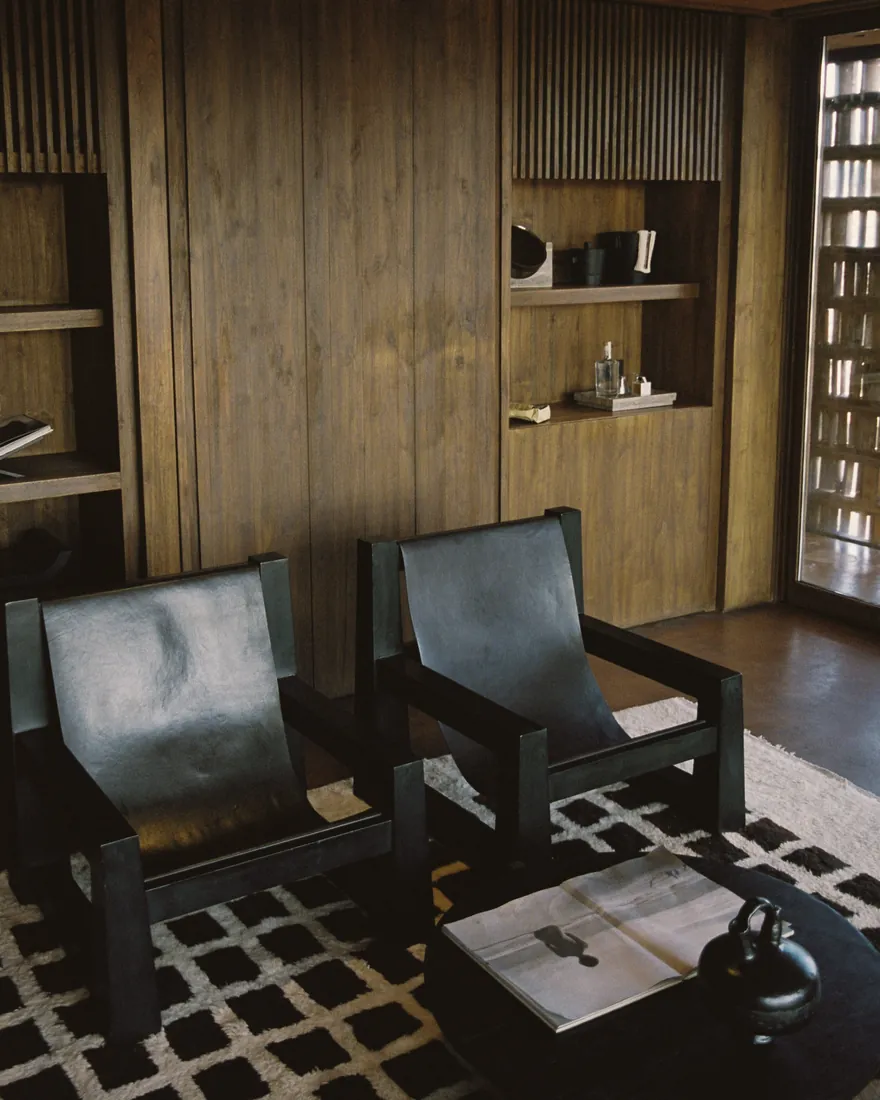
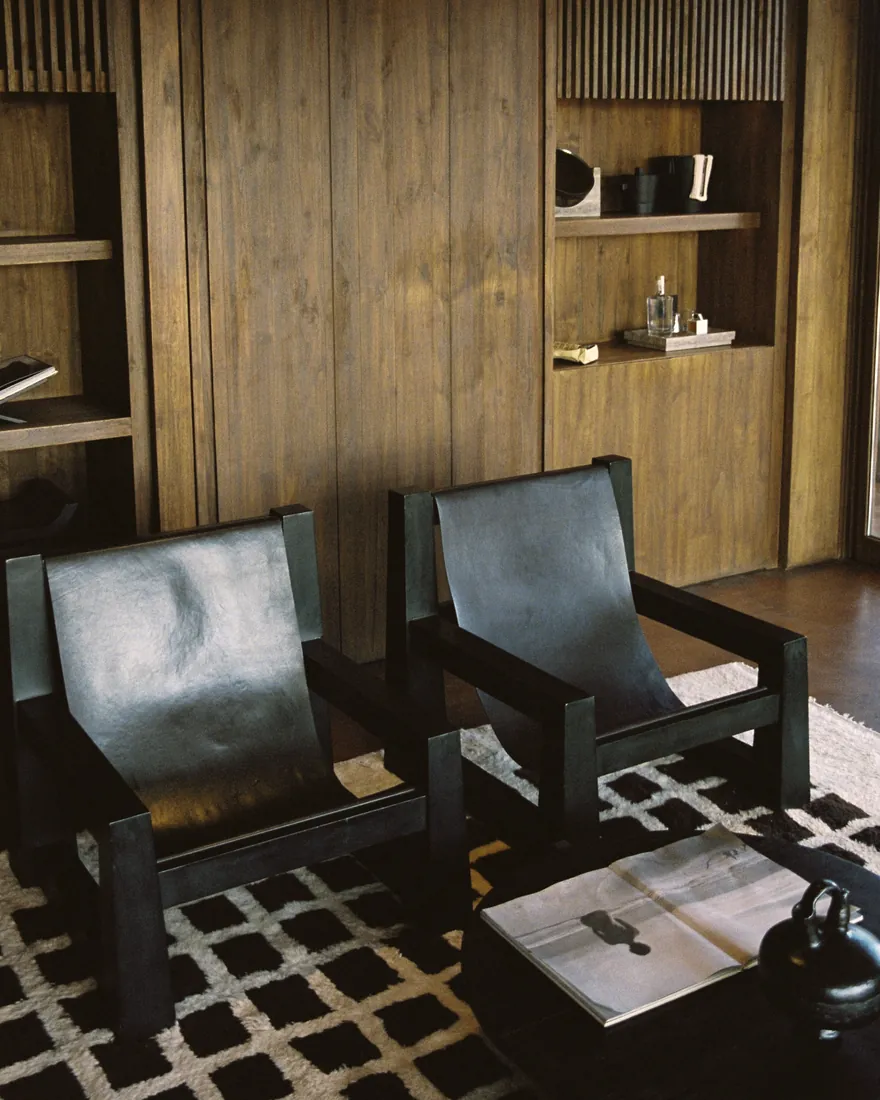
Lauren and her partner on the homepage and Meet Lauren; one Tune Up price; brighter intensive photo
- Homepage 'Meet your therapist' now shows Lauren with her partner (her own photo)
- Meet Lauren 'Who I am' uses a second photo of Lauren and her partner
- Tune Up fees: one $190 card with three ways to book, instead of three identical prices
- Intensive hero armchairs re-cropped and brightened, lighter tint
- Removed leftover styles for deleted homepage sections

Claude-Session: https://claude.ai/code/session_0185fBvg6G8bGENEXrerv9Ya

diff --git a/relationship-tune-up.html b/relationship-tune-up.html
@@ -424,6 +424,22 @@ footer .brand svg{color:var(--hotline)}
 .also a{color:inherit;text-decoration:underline;text-underline-offset:4px}
 @media(max-width:700px){.pillars{grid-template-columns:1fr}.pillar:nth-child(even){padding-left:0;border-left:0}}
 
+
+/* tune up price, 23 Nov */
+.tu-price{display:grid;grid-template-columns:minmax(0,5fr) minmax(0,7fr);gap:16px;margin-top:48px}
+@media(max-width:900px){.tu-price{grid-template-columns:1fr}}
+.tu-one{background:var(--blush);color:var(--ink);border-radius:26px;padding:30px;display:flex;flex-direction:column;gap:10px}
+.tu-one .tag,.tu-rhythms .tag{font-family:var(--m);font-size:12px;letter-spacing:.08em;text-transform:uppercase}
+.tu-one .price{font-family:var(--q);font-weight:800;font-size:clamp(72px,9vw,104px);line-height:.9;letter-spacing:-.02em;margin-top:6px}
+.tu-one .len{font-family:var(--m);font-size:12px;letter-spacing:.06em;text-transform:uppercase}
+.tu-one .tu-for{font-size:17px;margin-top:6px}
+.tu-one .btn-wrap{margin-top:auto;padding-top:16px}
+.btn-blush{background:var(--ink);color:#fff}
+.tu-rhythms{list-style:none;margin:0;padding:0;border-top:2px solid var(--blush)}
+.tu-rhythms li{border-bottom:2px solid var(--blush);padding:20px 0}
+.tu-rhythms .tag{color:var(--lime)}
+.tu-rhythms h3{font-family:var(--q);font-weight:800;text-transform:uppercase;font-size:22px;line-height:1.05;margin:6px 0 6px}
+.tu-rhythms p{font-size:17px;max-width:36em}
 </style>
 </head>
 <body>
@@ -504,22 +520,20 @@ footer .brand svg{color:var(--hotline)}
   <div class="wrap">
     <p class="label">The investment</p>
     <h2 class="Q" style="margin-top:18px">Pick a rhythm that fits your life.</h2>
-    <div class="fees"><div class="fee"><span class="tag">The Tune Up · single</span><p class="price">$190</p><p class="len">75 minutes · one session</p><ul>
-<li>A single, unhurried reconnection</li>
-<li>Revisit your miss, refresh your moves</li>
-<li>Book anytime, no history needed</li>
-<li>For past clients or a couple in a good place</li>
-</ul></div><div class="fee hi"><span class="tag">Seasonal Tune Ups</span><p class="price">$190</p><p class="len">Each · roughly one a season</p><ul>
-<li>Four across the year, the steady rhythm</li>
-<li>Booked one at a time, nothing prepaid</li>
-<li>A gentle reminder when each is due</li>
-<li>Keeps you ahead of the small stuff</li>
-</ul></div><div class="fee"><span class="tag">The Annual Check Up</span><p class="price">$190</p><p class="len">Once a year · 75 minutes</p><ul>
-<li>Your yearly relationship check up</li>
-<li>Book it and forget the date. I remind you</li>
-<li>A simple ritual that keeps you close</li>
-<li>Same warm session, once a year</li>
-</ul></div></div><p class="fineprint">Private fee, GST free. Relationship therapy is not rebatable under Medicare. If your extras cover Accredited Mental Health Social Workers, your fund may pay a benefit for a couples session, so check with them first. Past clients are welcome back at the same rate. Prefer a different cadence? Just ask, and I will shape it around your life.</p>
+    <div class="tu-price">
+      <div class="tu-one">
+        <span class="tag">Every Tune Up</span>
+        <p class="price">$190</p>
+        <p class="len">75 minutes · online · book anytime, no history needed</p>
+        <p class="tu-for">For past clients, or any couple in a good place who wants to stay there.</p>
+        <div class="btn-wrap"><a class="btn btn-blush js-enquire" href="mailto:lovelounge@queerlovelounge.com.au?subject=Queer%20Love%20Lounge%3A%20Tune%20Up%20enquiry">Enquire about a Tune Up</a></div>
+      </div>
+      <ol class="tu-rhythms">
+        <li><span class="tag">Once</span><h3>A single Tune Up</h3><p>One unhurried reconnection. Revisit your miss and refresh your moves.</p></li>
+        <li><span class="tag">Most chosen</span><h3>Seasonal Tune Ups</h3><p>Roughly one a season, four across the year. Booked one at a time, nothing prepaid, and I send a gentle reminder when each is due.</p></li>
+        <li><span class="tag">Once a year</span><h3>The Annual Check Up</h3><p>Your yearly relationship check up. Book it and forget the date. I remind you.</p></li>
+      </ol>
+    </div><p class="fineprint">Private fee, GST free. Relationship therapy is not rebatable under Medicare. If your extras cover Accredited Mental Health Social Workers, your fund may pay a benefit for a couples session, so check with them first. Past clients are welcome back at the same rate. Prefer a different cadence? Just ask, and I will shape it around your life.</p>
   </div>
 </section>
 

diff --git a/index.html b/index.html
@@ -91,6 +91,13 @@
 @media(hover:hover){.libl a:hover{text-decoration:underline;text-decoration-thickness:2px;text-underline-offset:5px}}
 .btn .wide-only{margin-left:-.5rem}
 @media(max-width:900px){.hero .portrait{max-width:300px}}
+
+/* lauren + partner, 23 Nov */
+.lauren-grid{display:grid;grid-template-columns:minmax(0,1.35fr) minmax(0,1fr);gap:clamp(32px,5vw,72px);align-items:start}
+@media(max-width:900px){.lauren-grid{grid-template-columns:1fr}}
+.portrait.us{margin:0;justify-self:end;max-width:400px;width:100%}
+@media(max-width:900px){.portrait.us{justify-self:center;max-width:320px}}
+.portrait.us figcaption{font-family:var(--a);font-style:italic;font-size:18px;margin-top:14px;text-align:center}
 </style>
 </head>
 <body>
@@ -214,8 +221,6 @@ h2 .A{display:block;text-transform:none;letter-spacing:-.01em;margin-top:.12em;f
 /* method */
 .method-grid{display:grid;grid-template-columns:1.1fr .9fr;gap:clamp(32px,6vw,88px);align-items:center}
 @media(max-width:900px){.method-grid{grid-template-columns:1fr}}
-#method h2 .A{color:var(--hotline)}
-#method .lede{margin-top:26px}
 .three{margin-top:32px;border-top:2px solid var(--ink)}
 .three > div{display:grid;grid-template-columns:3.2em 1fr;gap:16px;padding:18px 0;border-bottom:2px solid var(--ink)}
 .three .n{font-family:var(--m);font-size:13px;font-weight:500;padding-top:6px}
@@ -241,15 +246,9 @@ h2 .A{display:block;text-transform:none;letter-spacing:-.01em;margin-top:.12em;f
 .card-hint{font-size:16px;text-align:center;margin-top:22px;max-width:24em}
 
 /* everyone */
-#everyone{background:var(--red);color:#fff}
-#everyone .label{color:#fff}
-#everyone h2{margin-top:18px;max-width:15em}
-#everyone h2 .A{color:var(--blush)}
-#everyone .lede{margin-top:26px}
 .chips{display:flex;flex-wrap:wrap;gap:10px;margin-top:36px}
 .chip{font-family:var(--a);font-style:italic;font-weight:300;font-size:21px;padding:10px 20px;min-height:48px;display:inline-flex;align-items:center;border:2px solid #fff;border-radius:99px}
 .chip:nth-child(3n+1){background:#fff;color:var(--ink)}
-#everyone .measure{margin-top:32px}
 
 /* lauren */
 .lauren > *{max-width:46em}
@@ -442,7 +441,8 @@ footer .brand svg{color:var(--hotline)}
 </section>
 
 <section id="lauren">
-  <div class="wrap lauren">
+  <div class="wrap lauren lauren-grid">
+    <div>
     <p class="label">Meet your therapist</p>
     <h2 class="Q">Hi, I am Lauren. <span class="A">I am a couples therapist, and I am queer.</span></h2>
     <p class="lede">I know what it is like to walk into a room and spend the first while explaining your own life before anyone can help you with it. So I built one where you do not have to.</p>
@@ -452,6 +452,12 @@ footer .brand svg{color:var(--hotline)}
     <div class="chips" aria-label="Who this is for"><span class="chip">Monogamous</span><span class="chip">Open</span><span class="chip">Poly</span><span class="chip">More than two</span><span class="chip">Trans &amp; nonbinary partners</span><span class="chip">Married</span></div>
     <p class="measure" style="margin-top:22px"><a class="textlink" href="/lauren-lynch">More about Lauren and her credentials</a></p>
     <p class="sig"><svg viewBox="0 0 100 90" aria-hidden="true"><path fill="currentColor" d="M47 84 L10 47 C-1 35 1 14 17 8 C31 3 41 10 47 21 Z"/><path fill="currentColor" d="M53 84 L90 47 C101 35 99 14 83 8 C69 3 59 10 53 21 Z"/></svg>Lauren</p>
+      </div>
+    <figure class="portrait us">
+      <div class="frame"><img src="assets/lauren-and-partner-window.webp" alt="Lauren Lynch and her partner, cheek to cheek in warm evening light" width="768" height="960" loading="lazy"></div>
+      <span class="sticker" aria-hidden="true">Queer led</span>
+      <figcaption>Me and my partner. I live this too.</figcaption>
+    </figure>
   </div>
 </section>
 

diff --git a/lauren-lynch.html b/lauren-lynch.html
@@ -423,6 +423,8 @@ footer .brand svg{color:var(--hotline)}
 .solo{border-top:2px solid var(--ink);margin-top:34px;padding-top:22px;font-size:18px;max-width:40em}
 .solo a{color:inherit;text-decoration:underline;text-underline-offset:4px}
 
+
+.us-cap{font-family:var(--a);font-style:italic;font-size:18px;margin-top:14px;text-align:center}
 </style>
 </head>
 <body>
@@ -479,7 +481,7 @@ footer .brand svg{color:var(--hotline)}
       <h2 class="Q" style="margin-top:18px">From inside the community, <span class="A">and trained for the room.</span></h2>
       <div class="measure"><p>I am a Yorta Yorta and Boonwurrung woman and an Accredited Mental Health Social Worker, with more than fifteen years in practice. I work online with couples and relationships across Australia, from Boorloo (Perth), on Whadjuk Noongar Country.</p><p>I know what it is like to walk into a therapy room and spend the first while explaining your own life before anyone can help you with it. So I built one where you do not have to. Queer couples have had to invent more of their relationships than most. That is a skill, and it is where we start.</p></div>
     </div>
-    <div class="portrait photo"><div class="frame"><img src="assets/lauren-window-portrait.webp" srcset="assets/lauren-window-portrait-480.webp 480w, assets/lauren-window-portrait.webp 900w" sizes="(max-width:900px) 92vw, 440px" alt="Lauren Lynch sitting in a red armchair in a warm, lamp lit room" width="900" height="1125" loading="lazy"></div><span class="sticker" aria-hidden="true">Pull up a chair</span></div>
+    <div class="portrait photo"><div class="frame"><img src="assets/lauren-and-partner-golden.webp" alt="Lauren Lynch and her partner side by side, smiling in golden light" width="768" height="960" loading="lazy"></div><span class="sticker" aria-hidden="true">From inside</span><p class="us-cap">Me and my partner.</p></div>
   </div>
 </section>
 

diff --git a/pull-up-a-chair-intensive.html b/pull-up-a-chair-intensive.html
@@ -75,6 +75,8 @@
 .site-foot .ack b{font-family:var(--q);font-weight:800}
 .site-foot .crisis b{color:var(--lime);font-weight:500}
 .site-foot .legal{color:var(--blush)!important;margin-top:22px;font-family:var(--m);font-size:11px;letter-spacing:.05em;text-transform:uppercase;display:flex;flex-wrap:wrap;gap:6px 22px;opacity:.85}
+
+.photo .frame:has(img[src*="pair-armchairs"])::after{opacity:.05}
 </style>
 </head>
 <body>
